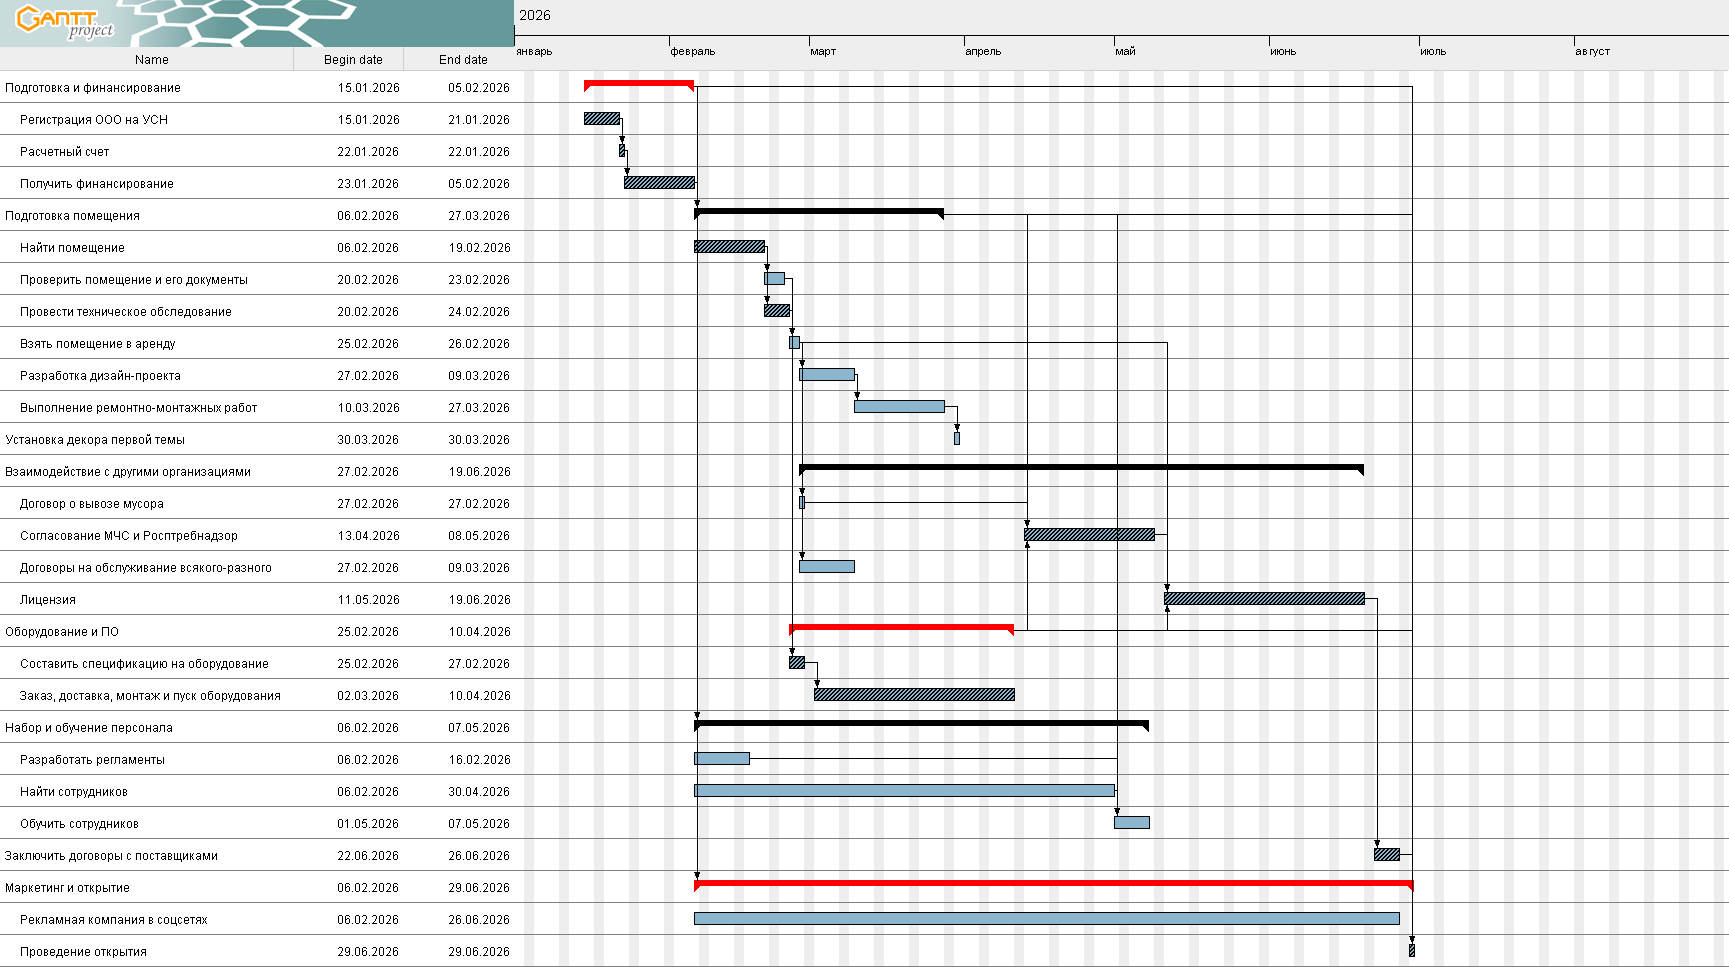
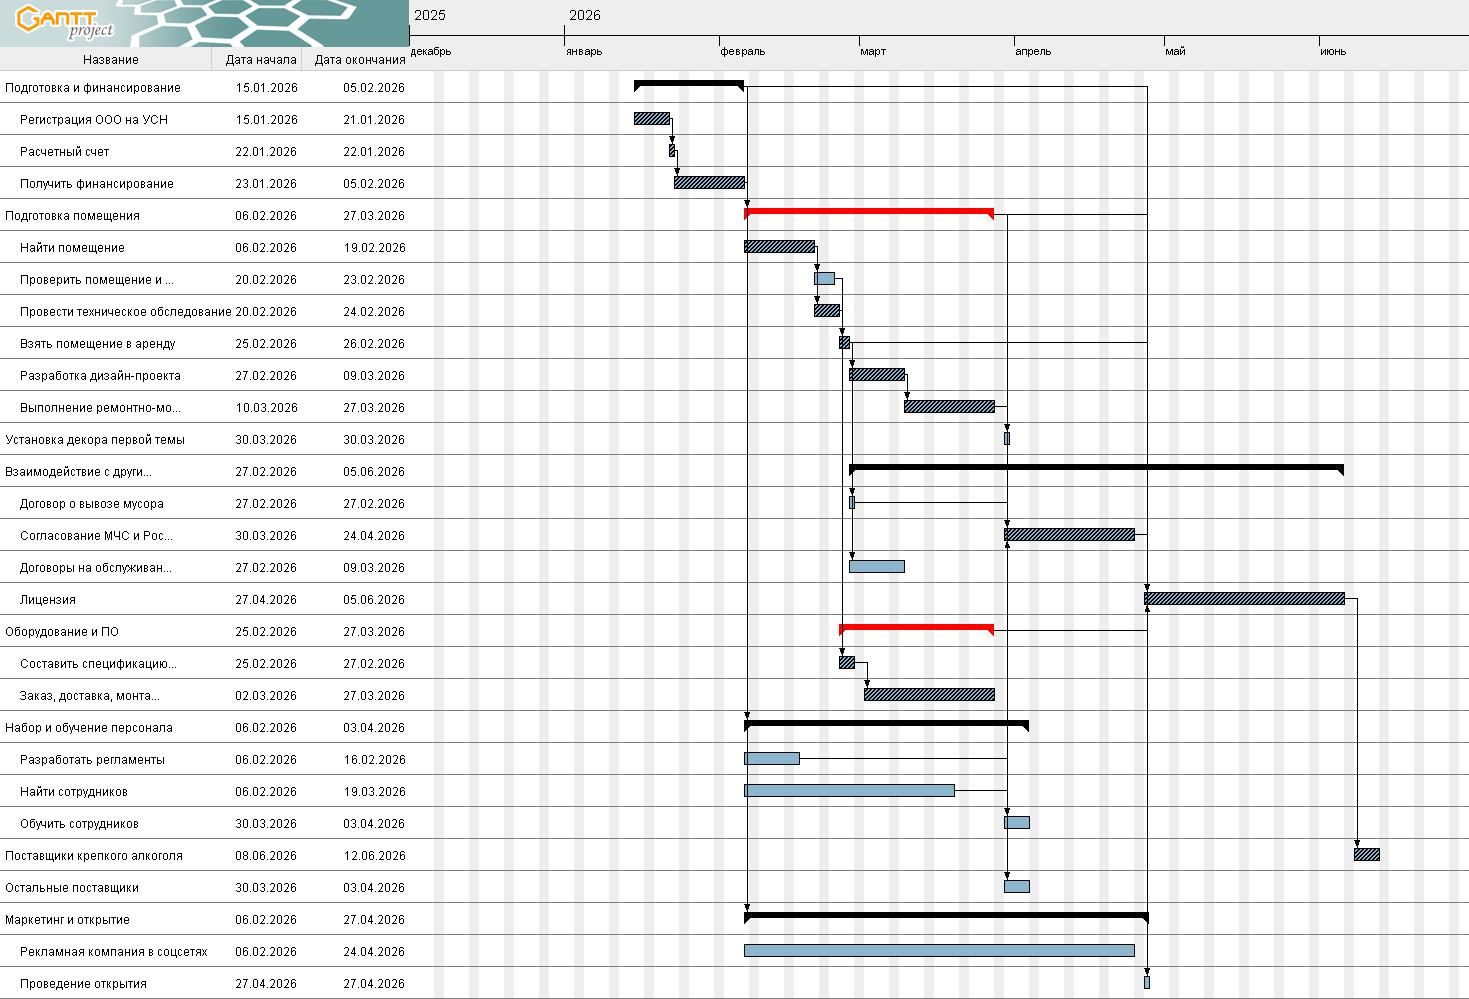
Add files via upload

diff --git a/Bar-tasks.html b/Bar-tasks.html
@@ -188,13 +188,13 @@
         <table border="0" cellpadding="0" cellspacing="0">
             <tr>
                 <td valign="top" class="header">
-                    <h5 class="header">Name</h5>
+                    <h5 class="header">Название</h5>
                 </td>
                 <td valign="top" class="header">
-                    <h5 class="header">Begin date</h5>
+                    <h5 class="header">Дата начала</h5>
                 </td>
                 <td valign="top" class="header">
-                    <h5 class="header">End date</h5>
+                    <h5 class="header">Дата окончания</h5>
                 </td>
                 <td valign="top" class="header">
                     <h5 class="header">Человек</h5>
@@ -429,7 +429,7 @@
                 </td>
                 <td valign="top" class="cell">
                     <div style="margin:0; padding:0; padding-left:0.5em">
-                        <div style="margin: 0; padding: 0; text-align: ;">19.06.2026</div>
+                        <div style="margin: 0; padding: 0; text-align: ;">05.06.2026</div>
                     </div>
                 </td>
                 <td valign="top" class="cell"></td>
@@ -460,12 +460,12 @@
                 </td>
                 <td valign="top" class="cell">
                     <div style="margin:0; padding:0; padding-left:0.5em">
-                        <div style="margin: 0; padding: 0; text-align: ;">13.04.2026</div>
+                        <div style="margin: 0; padding: 0; text-align: ;">30.03.2026</div>
                     </div>
                 </td>
                 <td valign="top" class="cell">
                     <div style="margin:0; padding:0; padding-left:0.5em">
-                        <div style="margin: 0; padding: 0; text-align: ;">08.05.2026</div>
+                        <div style="margin: 0; padding: 0; text-align: ;">24.04.2026</div>
                     </div>
                 </td>
                 <td valign="top" class="cell"></td>
@@ -496,12 +496,12 @@
                 </td>
                 <td valign="top" class="cell">
                     <div style="margin:0; padding:0; padding-left:0.5em">
-                        <div style="margin: 0; padding: 0; text-align: ;">11.05.2026</div>
+                        <div style="margin: 0; padding: 0; text-align: ;">27.04.2026</div>
                     </div>
                 </td>
                 <td valign="top" class="cell">
                     <div style="margin:0; padding:0; padding-left:0.5em">
-                        <div style="margin: 0; padding: 0; text-align: ;">19.06.2026</div>
+                        <div style="margin: 0; padding: 0; text-align: ;">05.06.2026</div>
                     </div>
                 </td>
                 <td valign="top" class="cell"></td>
@@ -519,7 +519,7 @@
                 </td>
                 <td valign="top" class="cell">
                     <div style="margin:0; padding:0; padding-left:0.5em">
-                        <div style="margin: 0; padding: 0; text-align: ;">10.04.2026</div>
+                        <div style="margin: 0; padding: 0; text-align: ;">27.03.2026</div>
                     </div>
                 </td>
                 <td valign="top" class="cell"></td>
@@ -545,8 +545,8 @@
             <tr>
                 <td valign="top" class="cell">
                     <div style="margin:0; padding:0; padding-left:0.5em">
-                        <div style="margin: 0; padding: 0; text-align: ;">Заказ, доставка, монтаж и пуск оборудования
-                        </div>
+                        <div style="margin: 0; padding: 0; text-align: ;">Заказ, доставка, монтаж и пуск оборудования (в
+                            т.ч. ЕГАИС)</div>
                     </div>
                 </td>
                 <td valign="top" class="cell">
@@ -556,7 +556,7 @@
                 </td>
                 <td valign="top" class="cell">
                     <div style="margin:0; padding:0; padding-left:0.5em">
-                        <div style="margin: 0; padding: 0; text-align: ;">10.04.2026</div>
+                        <div style="margin: 0; padding: 0; text-align: ;">27.03.2026</div>
                     </div>
                 </td>
                 <td valign="top" class="cell"></td>
@@ -574,7 +574,7 @@
                 </td>
                 <td valign="top" class="cell">
                     <div style="margin:0; padding:0; padding-left:0.5em">
-                        <div style="margin: 0; padding: 0; text-align: ;">07.05.2026</div>
+                        <div style="margin: 0; padding: 0; text-align: ;">03.04.2026</div>
                     </div>
                 </td>
                 <td valign="top" class="cell"></td>
@@ -610,7 +610,7 @@
                 </td>
                 <td valign="top" class="cell">
                     <div style="margin:0; padding:0; padding-left:0.5em">
-                        <div style="margin: 0; padding: 0; text-align: ;">30.04.2026</div>
+                        <div style="margin: 0; padding: 0; text-align: ;">19.03.2026</div>
                     </div>
                 </td>
                 <td valign="top" class="cell"></td>
@@ -623,12 +623,12 @@
                 </td>
                 <td valign="top" class="cell">
                     <div style="margin:0; padding:0; padding-left:0.5em">
-                        <div style="margin: 0; padding: 0; text-align: ;">01.05.2026</div>
+                        <div style="margin: 0; padding: 0; text-align: ;">30.03.2026</div>
                     </div>
                 </td>
                 <td valign="top" class="cell">
                     <div style="margin:0; padding:0; padding-left:0.5em">
-                        <div style="margin: 0; padding: 0; text-align: ;">07.05.2026</div>
+                        <div style="margin: 0; padding: 0; text-align: ;">03.04.2026</div>
                     </div>
                 </td>
                 <td valign="top" class="cell"></td>
@@ -636,17 +636,35 @@
             <tr>
                 <td valign="top" class="cell">
                     <div style="margin:0; padding:0; padding-left:0em">
-                        <div style="margin: 0; padding: 0; text-align: ;">Заключить договоры с поставщиками</div>
+                        <div style="margin: 0; padding: 0; text-align: ;">Поставщики крепкого алкоголя</div>
                     </div>
                 </td>
                 <td valign="top" class="cell">
                     <div style="margin:0; padding:0; padding-left:0.5em">
-                        <div style="margin: 0; padding: 0; text-align: ;">22.06.2026</div>
+                        <div style="margin: 0; padding: 0; text-align: ;">08.06.2026</div>
                     </div>
                 </td>
                 <td valign="top" class="cell">
                     <div style="margin:0; padding:0; padding-left:0.5em">
-                        <div style="margin: 0; padding: 0; text-align: ;">26.06.2026</div>
+                        <div style="margin: 0; padding: 0; text-align: ;">12.06.2026</div>
+                    </div>
+                </td>
+                <td valign="top" class="cell"></td>
+            </tr>
+            <tr>
+                <td valign="top" class="cell">
+                    <div style="margin:0; padding:0; padding-left:0em">
+                        <div style="margin: 0; padding: 0; text-align: ;">Остальные поставщики</div>
+                    </div>
+                </td>
+                <td valign="top" class="cell">
+                    <div style="margin:0; padding:0; padding-left:0.5em">
+                        <div style="margin: 0; padding: 0; text-align: ;">30.03.2026</div>
+                    </div>
+                </td>
+                <td valign="top" class="cell">
+                    <div style="margin:0; padding:0; padding-left:0.5em">
+                        <div style="margin: 0; padding: 0; text-align: ;">03.04.2026</div>
                     </div>
                 </td>
                 <td valign="top" class="cell"></td>
@@ -664,7 +682,7 @@
                 </td>
                 <td valign="top" class="cell">
                     <div style="margin:0; padding:0; padding-left:0.5em">
-                        <div style="margin: 0; padding: 0; text-align: ;">29.06.2026</div>
+                        <div style="margin: 0; padding: 0; text-align: ;">27.04.2026</div>
                     </div>
                 </td>
                 <td valign="top" class="cell"></td>
@@ -682,7 +700,7 @@
                 </td>
                 <td valign="top" class="cell">
                     <div style="margin:0; padding:0; padding-left:0.5em">
-                        <div style="margin: 0; padding: 0; text-align: ;">26.06.2026</div>
+                        <div style="margin: 0; padding: 0; text-align: ;">24.04.2026</div>
                     </div>
                 </td>
                 <td valign="top" class="cell"></td>
@@ -695,12 +713,12 @@
                 </td>
                 <td valign="top" class="cell">
                     <div style="margin:0; padding:0; padding-left:0.5em">
-                        <div style="margin: 0; padding: 0; text-align: ;">29.06.2026</div>
+                        <div style="margin: 0; padding: 0; text-align: ;">27.04.2026</div>
                     </div>
                 </td>
                 <td valign="top" class="cell">
                     <div style="margin:0; padding:0; padding-left:0.5em">
-                        <div style="margin: 0; padding: 0; text-align: ;">29.06.2026</div>
+                        <div style="margin: 0; padding: 0; text-align: ;">27.04.2026</div>
                     </div>
                 </td>
                 <td valign="top" class="cell"></td>
@@ -716,7 +734,7 @@
             <td bgcolor="#6d9ec6" width="50%" align="right"><b><a
                         href="http://ganttproject.biz">ganttproject.biz</a></b>
                 <br>
-                <b>04.12.2025 - 00:18:03</b>
+                <b>04.12.2025 - 22:38:41</b>
             </td>
         </tr>
     </table>

diff --git a/Bar-resources.html b/Bar-resources.html
@@ -209,7 +209,7 @@
             <td bgcolor="#6d9ec6" width="50%" align="right"><b><a
                         href="http://ganttproject.biz">ganttproject.biz</a></b>
                 <br>
-                <b>04.12.2025 - 00:18:03</b>
+                <b>04.12.2025 - 22:38:41</b>
             </td>
         </tr>
     </table>

diff --git a/index.html b/index.html
@@ -204,7 +204,7 @@
             <td bgcolor="#6d9ec6" width="50%" align="right"><b><a
                         href="http://ganttproject.biz">ganttproject.biz</a></b>
                 <br>
-                <b>04.12.2025 - 00:18:03</b>
+                <b>04.12.2025 - 22:38:41</b>
             </td>
         </tr>
     </table>

diff --git a/Bar-chart.html b/Bar-chart.html
@@ -171,7 +171,7 @@
 			<td bgcolor="#6d9ec6" width="50%" align="right"><b><a
 						href="http://ganttproject.biz">ganttproject.biz</a></b>
 				<br>
-				<b>04.12.2025 - 00:18:03</b>
+				<b>04.12.2025 - 22:38:41</b>
 			</td>
 		</tr>
 	</table>
